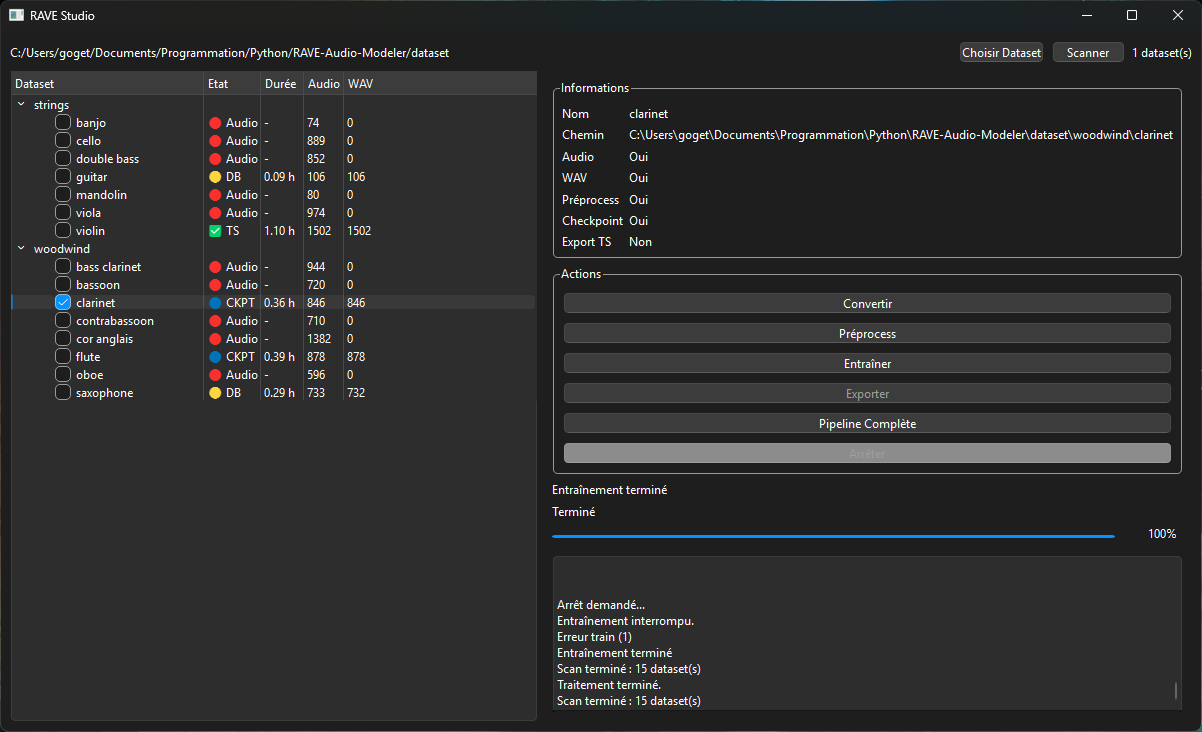
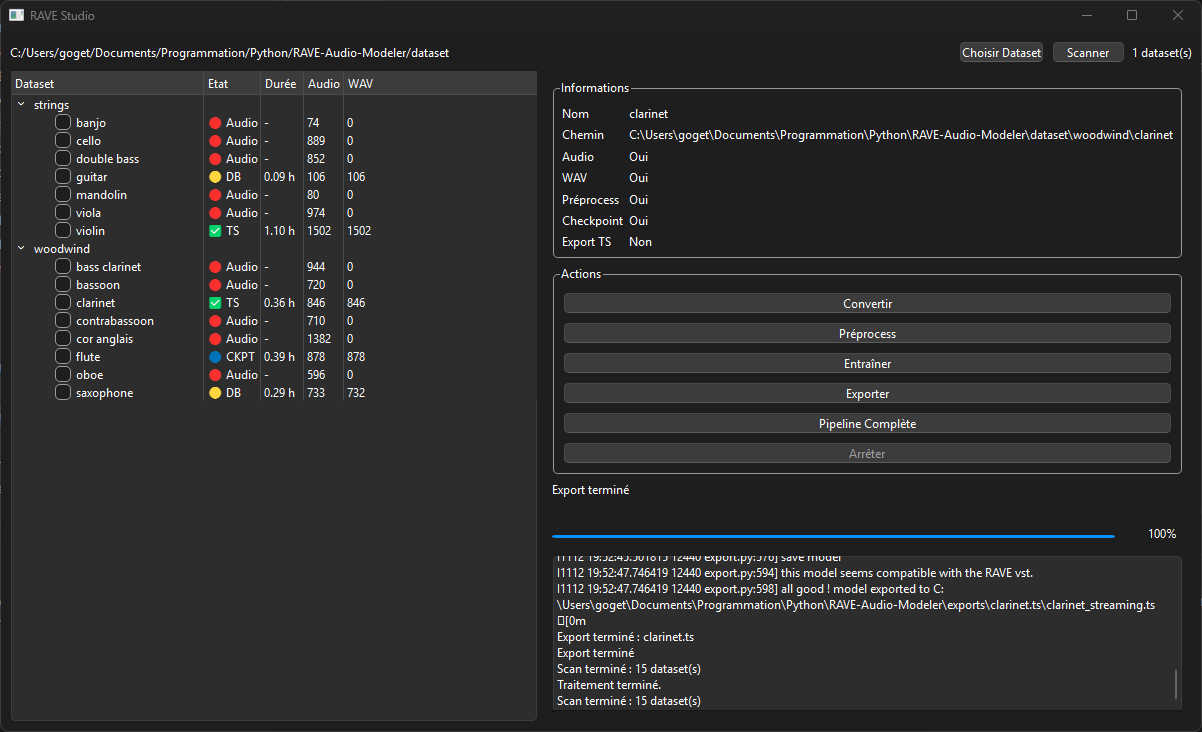
Add complete RAVE training and export pipeline

diff --git a/main.py b/main.py
@@ -336,6 +336,21 @@ class PreprocessWorker(QObject):
                 exist_ok=True
             )
 
+            wav_count = count_wav_files(
+                dataset
+            )
+
+            if wav_count == 0:
+                self.log.emit(
+                    f"{dataset.name} ignoré : aucun WAV."
+                )
+
+                continue
+
+            self.log.emit(
+                f"WAV détectés : {wav_count}"
+            )
+
             try:
 
                 self.process = subprocess.Popen(
@@ -569,6 +584,28 @@ class TrainWorker(QObject):
 
                 continue
 
+            with open(
+                    metadata_file,
+                    "r",
+                    encoding="utf-8"
+            ) as f:
+
+                meta = yaml.safe_load(f)
+
+            duration = meta.get(
+                "n_seconds",
+                0
+            )
+
+            if duration <= 0:
+                self.log.emit(
+                    f"{dataset.name} ignoré : "
+                    f"dataset vide "
+                    f"({duration:.1f}s)"
+                )
+
+                continue
+
             self.task.emit(
                 f"[{dataset_index}/{total}] "
                 f"Train : {dataset.name}"
@@ -791,6 +828,8 @@ class ExportWorker(QObject):
                 dataset.name
             )
 
+            print(run_dir)
+
             if run_dir is None:
 
                 self.log.emit(
@@ -839,6 +878,11 @@ class ExportWorker(QObject):
                     dataset.name,
                     "--streaming"
                 ]
+
+                self.log.emit(
+                    "Commande : "
+                    + " ".join(command)
+                )
 
                 self.process = subprocess.Popen(
                     command,
@@ -1191,6 +1235,39 @@ def get_latest_run(dataset_name):
     )
 
     return runs[0]
+
+def has_export(dataset_name):
+
+    export_dir = (
+        Path("exports")
+        / f"{dataset_name}.ts"
+    )
+
+    if not export_dir.exists():
+        return False
+
+    return any(
+        export_dir.glob("*.ts")
+    )
+
+def get_export_file(dataset_name):
+
+    export_dir = (
+        Path("exports")
+        / f"{dataset_name}.ts"
+    )
+
+    if not export_dir.exists():
+        return None
+
+    files = list(
+        export_dir.glob("*.ts")
+    )
+
+    if not files:
+        return None
+
+    return files[0]
 
 
 # ---------------------------------------------------------
@@ -1694,12 +1771,9 @@ class MainWindow(QMainWindow):
             / dataset.name
         )
 
-        ts_file = (
-            Path("exports")
-            / f"{dataset.name}.ts"
-        )
-
-        if ts_file.exists():
+        if has_export(
+                dataset.name
+        ):
             return "✅ TS"
 
         if has_checkpoint(
@@ -1958,10 +2032,10 @@ class MainWindow(QMainWindow):
         )
 
         self.lbl_ts.setText(
-            "Oui" if (
-                Path("exports")
-                / f"{dataset.name}.ts"
-            ).exists()
+            "Oui"
+            if has_export(
+                dataset.name
+            )
             else "Non"
         )
 
@@ -1982,13 +2056,17 @@ class MainWindow(QMainWindow):
             has_db
         )
 
-        has_ckpt = (
-                Path("runs")
-                / dataset.name
-        ).exists()
+        has_ckpt = has_checkpoint(
+            dataset.name
+        )
+
+        has_ts = has_export(
+            dataset.name
+        )
 
         self.btn_export.setEnabled(
             has_ckpt
+            #and not has_ts
         )
 
     # ---------------------------------------------------------
@@ -2256,10 +2334,75 @@ class MainWindow(QMainWindow):
 
         datasets = self.get_selected_datasets()
 
-        for dataset in datasets:
+        if not datasets:
             self.write_log(
-                f"Export : {dataset.name}"
+                "Aucun dataset sélectionné."
             )
+
+            return
+
+        self.thread = QThread()
+
+        self.worker = ExportWorker(
+            datasets
+        )
+
+        self.worker.moveToThread(
+            self.thread
+        )
+
+        self.thread.started.connect(
+            self.worker.run
+        )
+
+        self.worker.started.connect(
+            self.export_started
+        )
+
+        self.worker.finished.connect(
+            self.export_finished
+        )
+
+        self.worker.task.connect(
+            self.lbl_task.setText
+        )
+
+        self.worker.file.connect(
+            self.lbl_file.setText
+        )
+
+        self.worker.log.connect(
+            self.write_log
+        )
+
+        self.worker.finished.connect(
+            self.thread.quit
+        )
+
+        self.worker.finished.connect(
+            self.worker.deleteLater
+        )
+
+        self.worker.finished.connect(
+            self.task_finished
+        )
+
+        self.thread.finished.connect(
+            self.thread.deleteLater
+        )
+
+        self.thread.finished.connect(
+            self.scan_datasets
+        )
+
+        self.thread.start()
+
+        self.btn_convert.setEnabled(False)
+        self.btn_preprocess.setEnabled(False)
+        self.btn_train.setEnabled(False)
+        self.btn_export.setEnabled(False)
+
+        self.btn_stop.setEnabled(True)
 
     def export_started(self):
 
